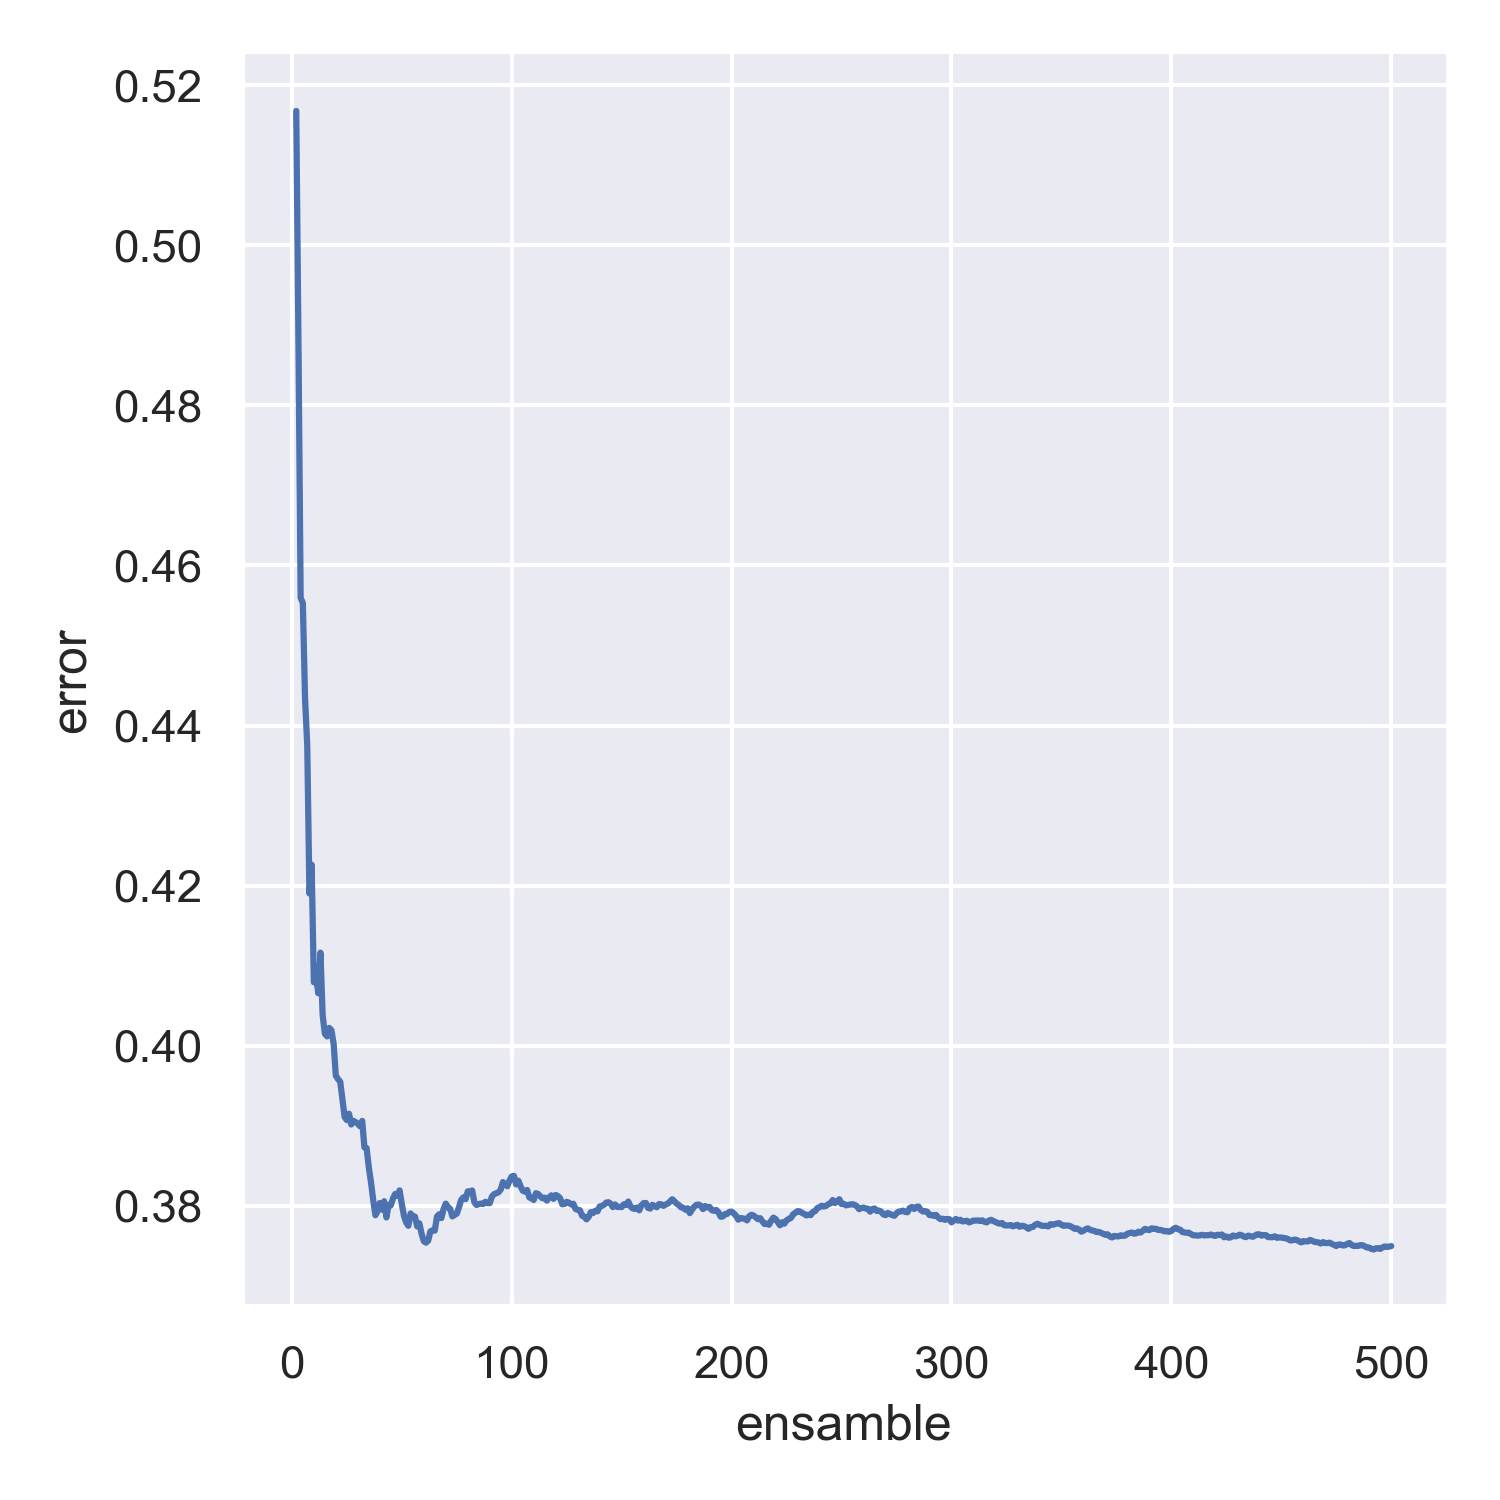
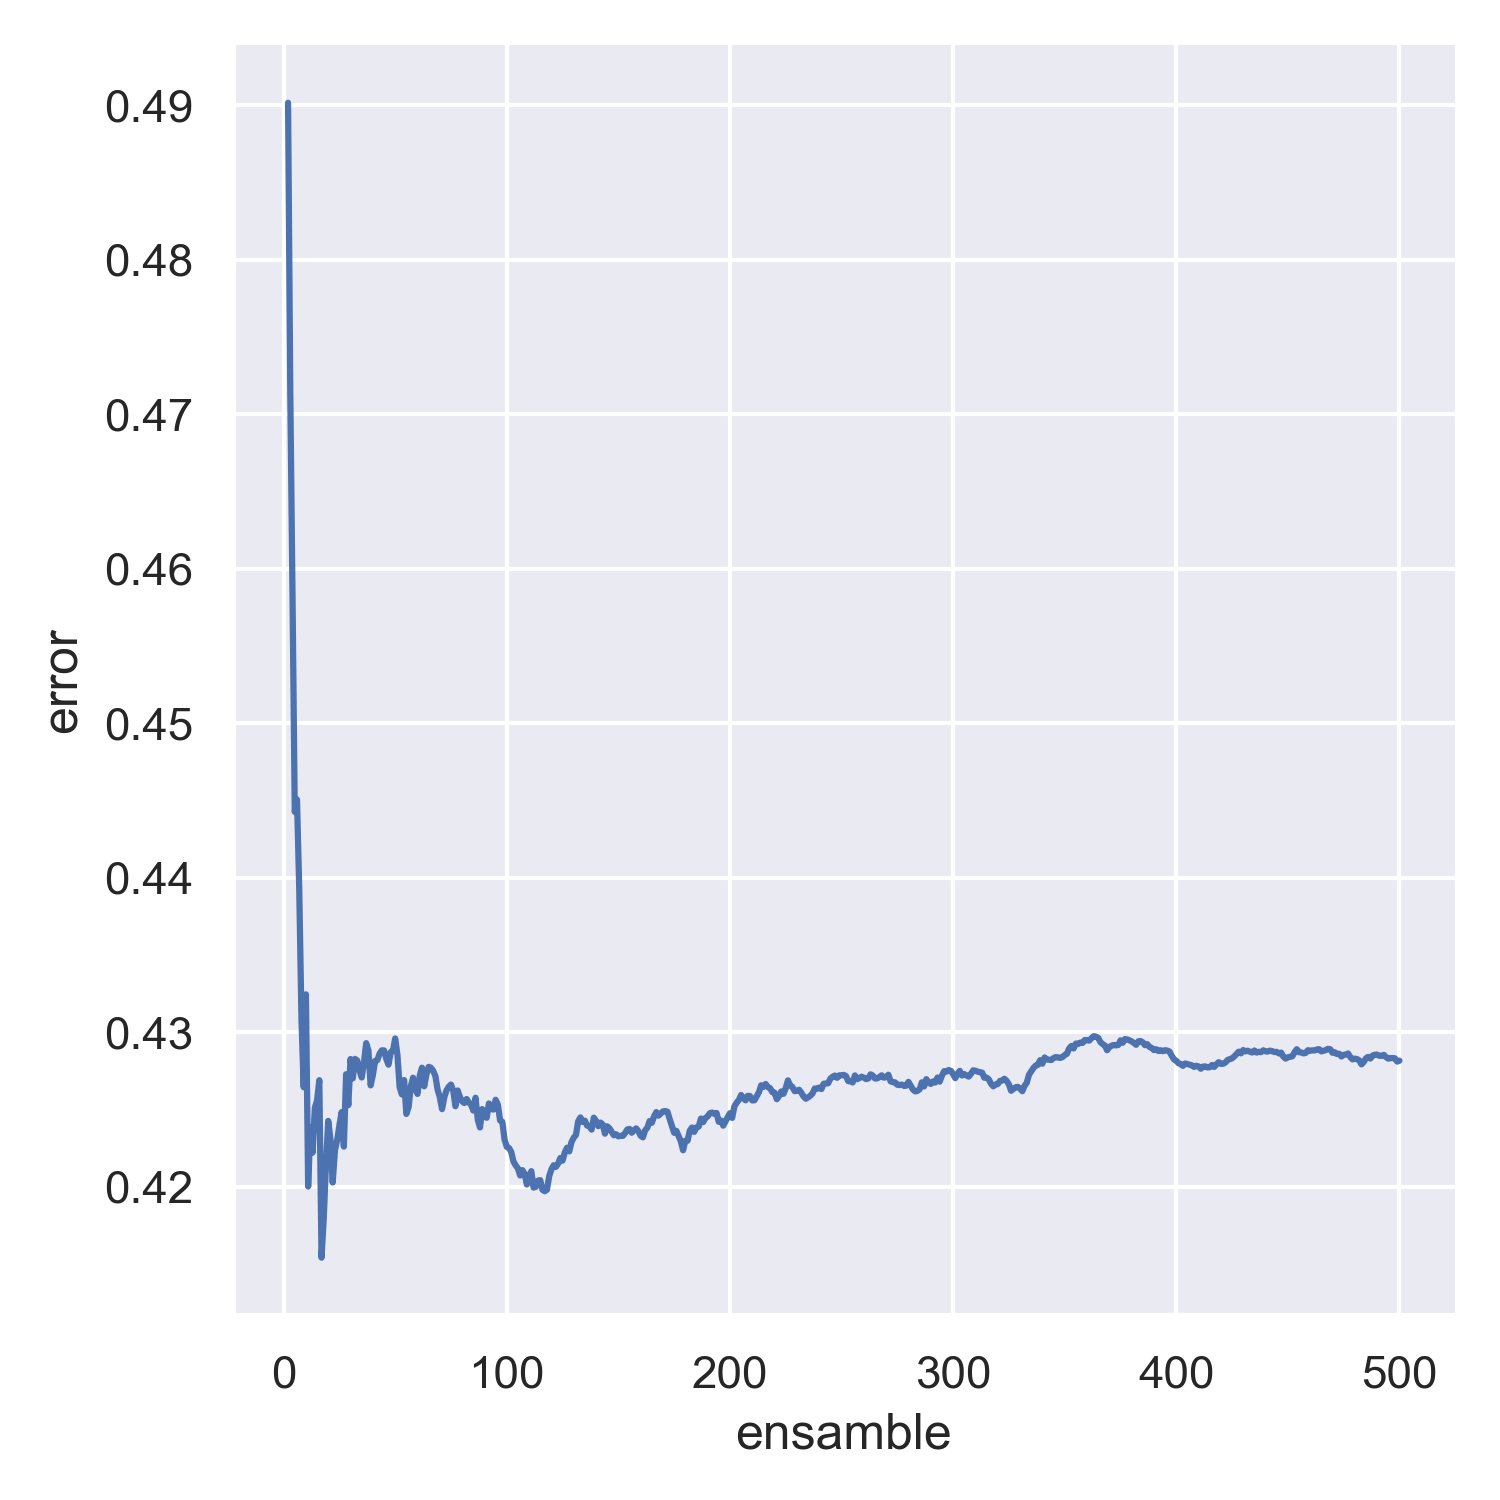
Ensambles (6)

diff --git a/docs/capitulos/12Ensambles.md b/docs/capitulos/12Ensambles.md
@@ -21,8 +21,10 @@ El **objetivo** de la unidad es conocer y aplicar diferentes técnicas para real
 from scipy.stats import binom
 from sklearn.datasets import load_diabetes, load_digits
 from sklearn.model_selection import train_test_split
-from sklearn.svm import LinearSVC, LinearSVR
+from sklearn.svm import LinearSVC, LinearSVR, SVR
 from sklearn.tree import DecisionTreeClassifier, DecisionTreeRegressor
+from sklearn.ensemble import BaggingRegressor
+from sklearn.neighbors import KNeighborsRegressor
 from sklearn.metrics import recall_score, mean_absolute_percentage_error
 from collections import Counter
 from matplotlib import pylab as plt
@@ -226,12 +228,11 @@ La siguiente tabla muestra el rendimiento de los algoritmos de regresión utiliz
 
 |                       |M.S.V. Lineal|Árboles de Decisión|
 |-----------------------|-------------|-------------------|
-|Único                  |$$0.4228$$   |$$0.4910$$         |
-|Promedio ($$M=11$$)    |$$0.4211$$   |$$0.3918$$         |
+|Único                  |$$0.4995$$   |$$0.5009$$         |
+|Promedio ($$M=11$$)    |$$0.4964$$   |$$0.4191$$         |
 
-Hasta este momento los ensambles han sido de $$M=11$$ elementos, queda la duda como varía el rendimiento con respecto al tamaño del ensamble. La siguiente figura muestra el rendimiento de Bagging utilizando Árboles de Decisión, cuando el ensamble cambia $$M=2,\ldots,500.$$ Se observa que alrededor 
-de $$M=200$$ y $$M=300$$ el error está estable y después hay una pequeña disminución en $$M=500.$$ Por otro lado 
-de $$M=50$$ a $$M=100$$ hay un incremento en el error. 
+Hasta este momento los ensambles han sido de $$M=11$$ elementos, queda la duda como varía el rendimiento con respecto al tamaño del ensamble. La siguiente figura muestra el rendimiento de Bagging utilizando Árboles de Decisión, cuando el ensamble cambia $$M=2,\ldots,500.$$ Se observa que alrededor que hay un decremento importante cuando el ensamble es pequeño, después el error se incrementa y vuelve a bajar alrededor 
+de $$M=100.$$ Finalmente se ve que el rendimiento es estable cuando $$M>200.$$
  
 ![Ensamble Diabetes](/AprendizajeComputacional/assets/images/ensamble-diabetes.png)
 <details markdown="block">
@@ -260,17 +261,46 @@ plt.savefig('ensamble-diabetes.png', dpi=300)
 
 # Stack Generalization
 
-Este tipo de ensamble es una generalización a todos los ensambles, la idea es 
-utilizar las predicciones de varios clasificadores para generar la predicción 
-final. 
+Continuando con la descripción de ensambles, se puede observar que Bagging en el caso de la media se puede representar como $$\sum_i^M \frac{1}{M} \hat y^i,$$ donde el factor $$\frac{1}{M}$$ se puede observar como un parámetro a identificar. Entonces la idea siguiente sería como se podría estimar parámetros para cada uno de los estimadores bases, e.g., $$\sum_i^M w_i \hat y^i$$ donde $$w_i$$ para bagging corresponde a $$\frac{1}{M}.$$ Se podría ir más allá y pensar que las predicciones $$\mathbf y=(\hat y^1, \ldots, \hat y^M)$$ podrían ser la entrada a otro estimador. 
 
-En bagging la función que se utilizó fue simplemente utilizar la media de las 
-predicciones hecha por los clasificadores base, pero la media podría no ser 
-la mejor función que una esta información. 
+Esa es la idea detrás de Stack Generalization, la idea es utilizar las predicciones de los estimadores bases como las entradas de otro estimador. Para poder llevar este proceso es necesario contar con un conjunto independiente del conjunto de entrenamiento para encontrar los parámetros del estimador que combina las predicciones. 
 
-Por otro lado en Stack Generalization se entrena otro clasificador sobre las 
-predicciones para tomar la decisión final. 
+## Ejemplo: Diabetes
 
-En el siguiente video se muestra este procedimiento. 
+Para ejemplificar el uso de Stack Generalization, se usa el conjunto de datos de Diabetes. Como se acaba de describir es necesario contar con un conjunto independiente para estimar los parámetros del estimador del stack. Entonces el primer paso es dividir el conjunto de entrenamiento en un conjunto de entrenamiento y validación ($$\mathcal V,$$) tal y como se muestra en la siguiente instrucción. 
 
-{%include stack_generalization.html %}
+```python
+T1, V, y_t1, y_v = train_test_split(T, y_t, test_size=0.3)
+```
+
+Para este ejemplo se usará como regresores bases el algoritmo de [Vecinos Cercanos](/AprendizajeComputacional/capitulos/07NoParametricos/#sec:regresion) con diferentes parámetros (primera línea), después se usan los modelos para predecir el conjunto de validación ($$\mathcal V$$) y prueba ($$\mathcal G$$), esto se observa en la segunda y tercera línea del siguiente código. 
+
+```python
+models = [KNeighborsRegressor(n_neighbors=n).fit(T1, y_t1) for n in [7, 9]]
+V_stack = np.array([m.predict(V) for m in models]).T
+G_stack = np.array([m.predict(G) for m in models]).T
+```
+
+El porcentaje del error absoluto de los estimadores bases en el conjunto de prueba es $$0.4173$$ y $$0.4232$$, respectivamente. Estos errores se calculan utilizando el siguiente código. 
+
+```python
+for hy in G_stack.T:
+     print(f'{mean_absolute_percentage_error(y_g, hy):0.4f}')
+```
+
+Finalmente, es momento de entrenar el regresor que combinará las salidas de los estimadores bases, i.e., Vecinos Cercanos. Se decidió utilizar una [Máquina de Soporte Vectorial](/AprendizajeComputacional/capitulos/09Lineal/#sec:svm) con kernel polinomial de grado $$2$$. Los parámetros de la máquina se estiman en la primera línea, y después se predicen los datos del conjunto de prueba y se mide el error. El error que tiene el procedimiento de stacking implementado es $$0.3894.$$
+
+```python
+stacking = SVR(kernel='poly', degree=2).fit(V_stack, y_v)
+hy = stacking.predict(np.vstack(G_stack))
+mean_absolute_percentage_error(y_g, hy)
+```
+
+Cabe mencionar que no en todos los casos el procedimiento de stacking consigue un mejor rendimiento que los estimadores bases, por ejemplo, en las siguientes instrucciones se entrena un Bagging con Árboles de Decisión para ser utilizado en lugar de la Máquina de Soporte Vectorial, el rendimiento de este cambio es $$0.4455,$$ lo cual es considerablemente mayor que el error obtenido por los estimadores bases. 
+
+```python
+st_trees = BaggingRegressor(estimator=DecisionTreeRegressor(min_samples_split=9),
+                            n_estimators=200).fit(V_stack, y_v)
+hy = st_trees.predict(np.vstack(G_stack))
+print(f'{mean_absolute_percentage_error(y_g, hy):0.4f}')
+```

diff --git a/docs/capitulos/07NoParametricos.md b/docs/capitulos/07NoParametricos.md
@@ -445,6 +445,7 @@ hy = kcl.predict(G)
 ```
 
 # Regresión
+{: #sec:regresion }
 
 La idea de utilizar vecinos cercanos no es solamente para problemas de clasificación, en problemas de regresión se puede seguir un razonamiento equivalente, el único cambio
 es en la función $$N_c(x)$$ donde en lugar de calcular la frecuencia de las
